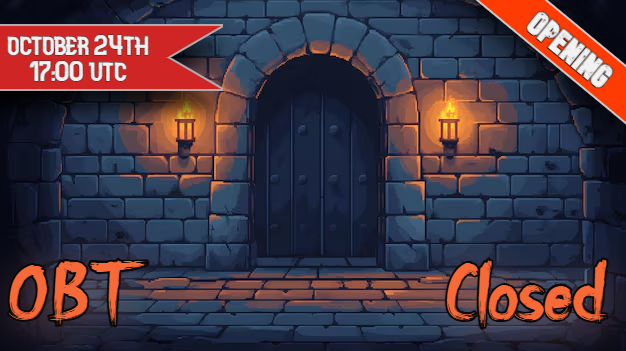
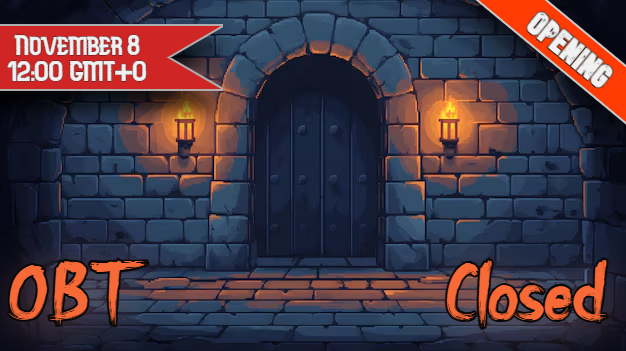
all prepared for re-opening

Changed region(s): [[0.0, 0.0855, 0.2428, 0.2564]]

diff --git a/client/src/pages/Home.jsx b/client/src/pages/Home.jsx
@@ -7,7 +7,7 @@ const Home = () => {
 
     return (
         <div className='home_container'>
-            <HomeContent
+            {/* <HomeContent
                 title="🎉Server is Open!🔓"
                 date="24.10.2025"
                 sideImage={Images.open_bg_edit}
@@ -20,18 +20,18 @@ const Home = () => {
                         <p className='description_item_p'><b>Welcome everyone to our server Mu Online!</b><br/>🔹 Bonus Weekend Exp+50% Drop +10%🔥.<br/>🔹 Bonus Evening Exp+100% Drop +10% from 18:00 to 22:00🔥.<br/>🔹 All classes available from 1 lvl.<br/>🔹 Vote fot us and get WCoins! <br/><b>Join us and bring your friends to build a server with pleasant gaming atmosphere!</b></p>
                     </div>
                 </div>
-            </HomeContent>
+            </HomeContent> */}
             <HomeContent
-                title="📢Grand Opening October 24th 17:00 Server Time🔥"
+                title="📢Grand Opening November 8 at 12:00 Servet Time🔥"
                 date="16.10.2025"
                 sideImage={Images.img_opening_news}
             >
                 <div className='description_list'>
                     <div className='opening_wrapper_h4'>
-                        <h4 className='description_item_h4_opening'>Opening is scheduled for October 24th 17:00 Server Time!</h4>
+                        <h4 className='description_item_h4_opening'>Opening is scheduled for November 8 at 12:00 Servet Time!</h4>
                     </div>
                     <div className='description_wrapper_p'>
-                        <p className='description_item_p'><b>Welcome to our classic Mu Online server!</b><br/> - The great journey will begin on 24th of October 17:00 Server Time.<br/> - Our server is equally opportunity server, everything depends on your activity in game.<br/> - There is no any way to get equipment/weapons/e.t.c but in game way.<br/> - The only donate is WC to use for getting VIP or buying things in X-Shop.<br/> - No any donate will be available until the first Castle Siege which gonna happen in 2 weeks after the journey begun.<br/> - We hope you will enjoy your adventure!</p>
+                        <p className='description_item_p'><b>- The great journey will begin on November 8 at 12:00 Server Time / 14:00 Kyiv / 15:00 Moscow / 13:00 Madrid.</b> <br/> - Our server is equally opportunity server, everything depends on your activity in game.<br/> - There is no any way to get equipment/weapons/e.t.c but in game way.<br/> - The only donate is WC to use for getting VIP or buying things in X-Shop.<br/> - No any donate will be available until the first Castle Siege which gonna happen in 2 weeks after the journey begun.<br/> - We hope you will enjoy your adventure!</p>
                     </div>
                 </div>
             </HomeContent>
@@ -45,7 +45,7 @@ const Home = () => {
                         <h4 className='description_item_h4_opening'>Due to upcoming opening OBT is closed!</h4>
                     </div>
                     <div className='description_wrapper_p'>
-                        <p className='description_item_p'><b>Waiting for you on the server Opening October 24th at 17:00 Server Time "UTC"!</b><br/> - A lot of things was fixed and configured for smooth and comfortable gameplay.<br/> - The voting system in the account panel will be available on the opening day.<br/> - Everyone who has already downloaded the game client must download the updated version again.<br/><a className='a_download' href="https://www.mu-void.com/download"> 👉 Download</a> <br/> - All accounts and characters were deleted deleted.<br/><a className='a_registration' href="https://www.mu-void.com/registration">👉 Registration</a></p>
+                        <p className='description_item_p'><b>Waiting for you on the server Opening November 8 at 12:00 Servet Time "UTC"!</b><br/> - A lot of things was fixed and configured for smooth and comfortable gameplay.<br/> - The voting system in the account panel will be available on the opening day.<br/> - Everyone who has already downloaded the game client must download the updated version again.<br/><a className='a_download' href="https://www.mu-void.com/download"> 👉 Download</a> <br/> - All accounts and characters were deleted deleted.<br/><a className='a_registration' href="https://www.mu-void.com/registration">👉 Registration</a></p>
                     </div>
                 </div>
             </HomeContent>

diff --git a/server/controllers/userController.js b/server/controllers/userController.js
@@ -110,7 +110,7 @@ class UserController {
             const vote = await request
             .input('AccountID', sql.VarChar(10), p_resp)
             .input('Type', sql.Int(), 0)
-            .input('Coin', sql.Float(), 3)
+            .input('Coin', sql.Float(), 0)
             .execute('dbo.WZ_IBS_AddCoin')
             console.log("vote 1st if");
             return res.json(vote.recordset[0].RESULT)
@@ -124,7 +124,7 @@ class UserController {
                 const vote = await request
                 .input('AccountID', sql.VarChar(10), p_resp)
                 .input('Type', sql.Int(), 0)
-                .input('Coin', sql.Float(), 3)
+                .input('Coin', sql.Float(), 0)
                 .execute('dbo.WZ_IBS_AddCoin')
                 console.log("vote 2nd if");
                 return res.json(vote.recordset[0].RESULT)
@@ -143,7 +143,7 @@ class UserController {
         const vote = await request
         .input('AccountID', sql.VarChar(10), custom)
         .input('Type', sql.Int(), 0)
-        .input('Coin', sql.Float(), 5)
+        .input('Coin', sql.Float(), 0)
         .execute('dbo.WZ_IBS_AddCoin')
         console.log(vote.recordset[0]);
         return res.json(vote.recordset[0].RESULT)
@@ -155,7 +155,7 @@ class UserController {
         const vote = await request
         .input('AccountID', sql.VarChar(10), postback)
         .input('Type', sql.Int(), 0)
-        .input('Coin', sql.Float(), 10)
+        .input('Coin', sql.Float(), 0)
         .execute('dbo.WZ_IBS_AddCoin')
         console.log(vote.recordset[0]);
         return res.json(vote.recordset[0].RESULT)
@@ -168,7 +168,7 @@ class UserController {
             const vote = await request
             .input('AccountID', sql.VarChar(10), userid)
             .input('Type', sql.Int(), 0)
-            .input('Coin', sql.Float(), 5)
+            .input('Coin', sql.Float(), 0)
             .execute('dbo.WZ_IBS_AddCoin')
             console.log(vote.recordset[0].RESULT);
             return res.json(vote.recordset[0].RESULT)

diff --git a/client/src/store/slices/serverInfoSlice.js b/client/src/store/slices/serverInfoSlice.js
@@ -47,7 +47,7 @@ const serverInfo = [
 },
 {title: 'Max. Stats:', content: {content: '32000', className: 'description_content_p'}},
 {title: 'BC, DS:', content: {content: '150% Exp🔥', className: 'description_content_p'}},
-{title: 'Happy Hour:', content: {content: 'Exp + 100% Drop + 10% from 18:00 to 22:00', className: 'description_content_p'}},
+{title: 'Happy Hour:', content: {content: 'Exp + 100% Drop + 10% twice a day', className: 'description_content_p'}},
 {title: 'Weekend Hot-Exp:', content: {content: 'Exp + 50% Drop +10% from Friday 18:00 to Sunday 24:00', className: 'description_content_p'}},
 {title: 'Offexp:', content: {content: '/offlevel  with pick up jewels🔥', className: 'description_content_p'}},
 {title: 'Setparty:', content: {content: '/setparty  and your party password', className: 'description_content_p'}},

diff --git a/client/src/styles/scss/index.scss b/client/src/styles/scss/index.scss
@@ -1242,6 +1242,7 @@ body {
     align-self: center;
     justify-self: center;
     background: #070326;
+    width: 92%;
     color: whitesmoke;
     font-size: 0.7em;
     border: 0.15em solid rgb(69, 69, 75);
@@ -1249,6 +1250,9 @@ body {
     @include box-shadow(0.1em, 0.1em, -0.1em, -0.1em, 0.16em, rgb(47, 21, 72));
     @include app_padding(0.4em); 
     @include app_margin(0.5em);
+    .top5_table{
+        width: 100%;
+    }
     tbody  td{
         font-size: 1em;
         text-align: center;
@@ -3281,7 +3285,7 @@ body {
         width: 100%;
         justify-content: center;
         align-content: center;
-        @include app_margin(1em 0 0 0);
+        @include app_margin(0 0 1em 0);
         font-size: 1.4em;
         font-weight: 500;
         color: #e65039; 

diff --git a/client/src/styles/index.css b/client/src/styles/index.css
@@ -1528,6 +1528,7 @@ body {
   -ms-grid-column-align: center;
       justify-self: center;
   background: #070326;
+  width: 92%;
   color: whitesmoke;
   font-size: 0.7em;
   border: 0.15em solid rgb(69, 69, 75);
@@ -1536,6 +1537,9 @@ body {
           box-shadow: 0.1em 0.1em 0.16em rgb(47, 21, 72), -0.1em -0.1em 0.16em rgb(47, 21, 72), 0.1em -0.1em 0.16em rgb(47, 21, 72), -0.1em 0.1em 0.16em rgb(47, 21, 72);
   padding: 0.4em;
   margin: 0.5em;
+}
+.top5_container .top5_table {
+  width: 100%;
 }
 .top5_container tbody td {
   font-size: 1em;
@@ -4265,7 +4269,7 @@ body {
           justify-content: center;
   -ms-flex-line-pack: center;
       align-content: center;
-  margin: 1em 0 0 0;
+  margin: 0 0 1em 0;
   font-size: 1.4em;
   font-weight: 500;
   color: #e65039;

diff --git a/client/src/components/modals/userPanel/Vote/VoteContainer.jsx b/client/src/components/modals/userPanel/Vote/VoteContainer.jsx
@@ -22,7 +22,7 @@ const VoteContainer = () => {
             <div className="vote_header_wrapper">
                 <h4 className="vote_h4">👍📢 Vote for our Server and get reward <em className="vote_em"> WCoins</em>!</h4>
             </div>
-            {/* <div className="vote_announce">Will be available few hours before the Opening!</div> */}
+            <div className="vote_announce">Will be available few hours before the opening, now free!</div>
             {isSuccess &&
             <>
             <VoteItem

diff --git a/server/index.js b/server/index.js
@@ -17,10 +17,10 @@ app.use('/api', router)
 /// Обработка ошибок, последний Middleware:
 app.use(errorHandlerMiddleware)
 
-mmotopVoteController.mmotopFetch()
-setInterval( () => {
-    mmotopVoteController.mmotopFetch()
-}, 1200000)
+// mmotopVoteController.mmotopFetch()
+// setInterval( () => {
+//     mmotopVoteController.mmotopFetch()
+// }, 1200000)
 const start = async () => {
     try {
         app.listen(PORT, () => {

diff --git a/client/src/components/modals/online/OnlineStatus.jsx b/client/src/components/modals/online/OnlineStatus.jsx
@@ -1,8 +1,8 @@
 
 const OnlineStatus = ({online}) => {
     return (
-        // <div className="offline_status_div">
-        <div className={online != null ? "online_status_div" : "offline_status_div"}>
+        <div className="offline_status_div">
+        {/* <div className={online != null ? "online_status_div" : "offline_status_div"}> */}
             
         </div>
     );
